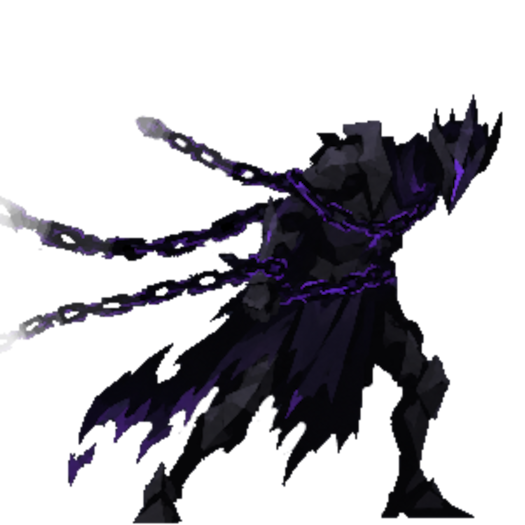
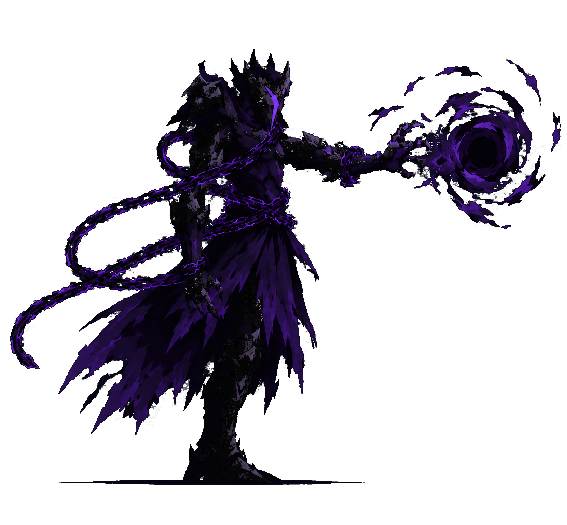
cast anims. veil sweep applies corruption

diff --git a/InterloperCode/Cards/Common/VeilSweep.cs b/InterloperCode/Cards/Common/VeilSweep.cs
@@ -1,5 +1,6 @@
 using BaseLib.Utils;
 using Interloper.InterloperCode.Cards;
+using Interloper.InterloperCode.Powers;
 using MegaCrit.Sts2.Core.Commands;
 using MegaCrit.Sts2.Core.DevConsole;
 using MegaCrit.Sts2.Core.Entities.Cards;
@@ -18,7 +19,7 @@ public class VeilSweep() : InterloperCard(2,
 {
     public override IEnumerable<CardKeyword> CanonicalKeywords => [CardKeyword.Exhaust];
     protected override IEnumerable<DynamicVar> CanonicalVars => [
-        new DamageVar(16, ValueProp.Move),
+        new PowerVar<AbyssalCorruptionPower>("AbyssalCorruptionPower", 12),
         new CardsVar(2)
     ];
 
@@ -26,7 +27,7 @@ public class VeilSweep() : InterloperCard(2,
         PlayerChoiceContext choiceContext,
         CardPlay play)
     {
-        await CommonActions.CardAttack(this, play).Execute(choiceContext);
+        await PowerCmd.Apply<AbyssalCorruptionPower>(choiceContext, play.Target, DynamicVars["AbyssalCorruptionPower"].IntValue, Owner.Creature, this);
     }
 
     protected override void OnUpgrade()

diff --git a/InterloperCode/Cards/CorruptionHandlerCard.cs b/InterloperCode/Cards/CorruptionHandlerCard.cs
@@ -20,7 +20,7 @@ public abstract class CorruptionHandlerCard(int corruptionThreshold, int cost, C
         {
             return;
         }
-
+        
         if (Owner.Creature.GetPowerAmount<EngulfPower>() > 0)
         {
             await CorruptionConsumptionEffect(choiceContext, cardPlay);
@@ -29,6 +29,7 @@ public abstract class CorruptionHandlerCard(int corruptionThreshold, int cost, C
         else if (cardPlay.Target.GetPowerAmount<AbyssalCorruptionPower>() >= corruptionThreshold)
         {
             await CorruptionConsumptionEffect(choiceContext, cardPlay);
+            await CreatureCmd.TriggerAnim(base.Owner.Creature, "cast_2", 0);
             int consumed = -corruptionThreshold;
             if (this.ConsumptionOverride != 0)
             {

diff --git a/InterloperCode/Cards/GlyphCard.cs b/InterloperCode/Cards/GlyphCard.cs
@@ -28,7 +28,7 @@ public abstract class GlyphCard(int cost, CardType type, CardRarity rarity, Targ
     {
         if (cardPlay.Card != this)
             return;
-
+        await CreatureCmd.TriggerAnim(base.Owner.Creature, "cast", 0);
         switch (GlyphType)
         {
             case GlyphType.EYE:
